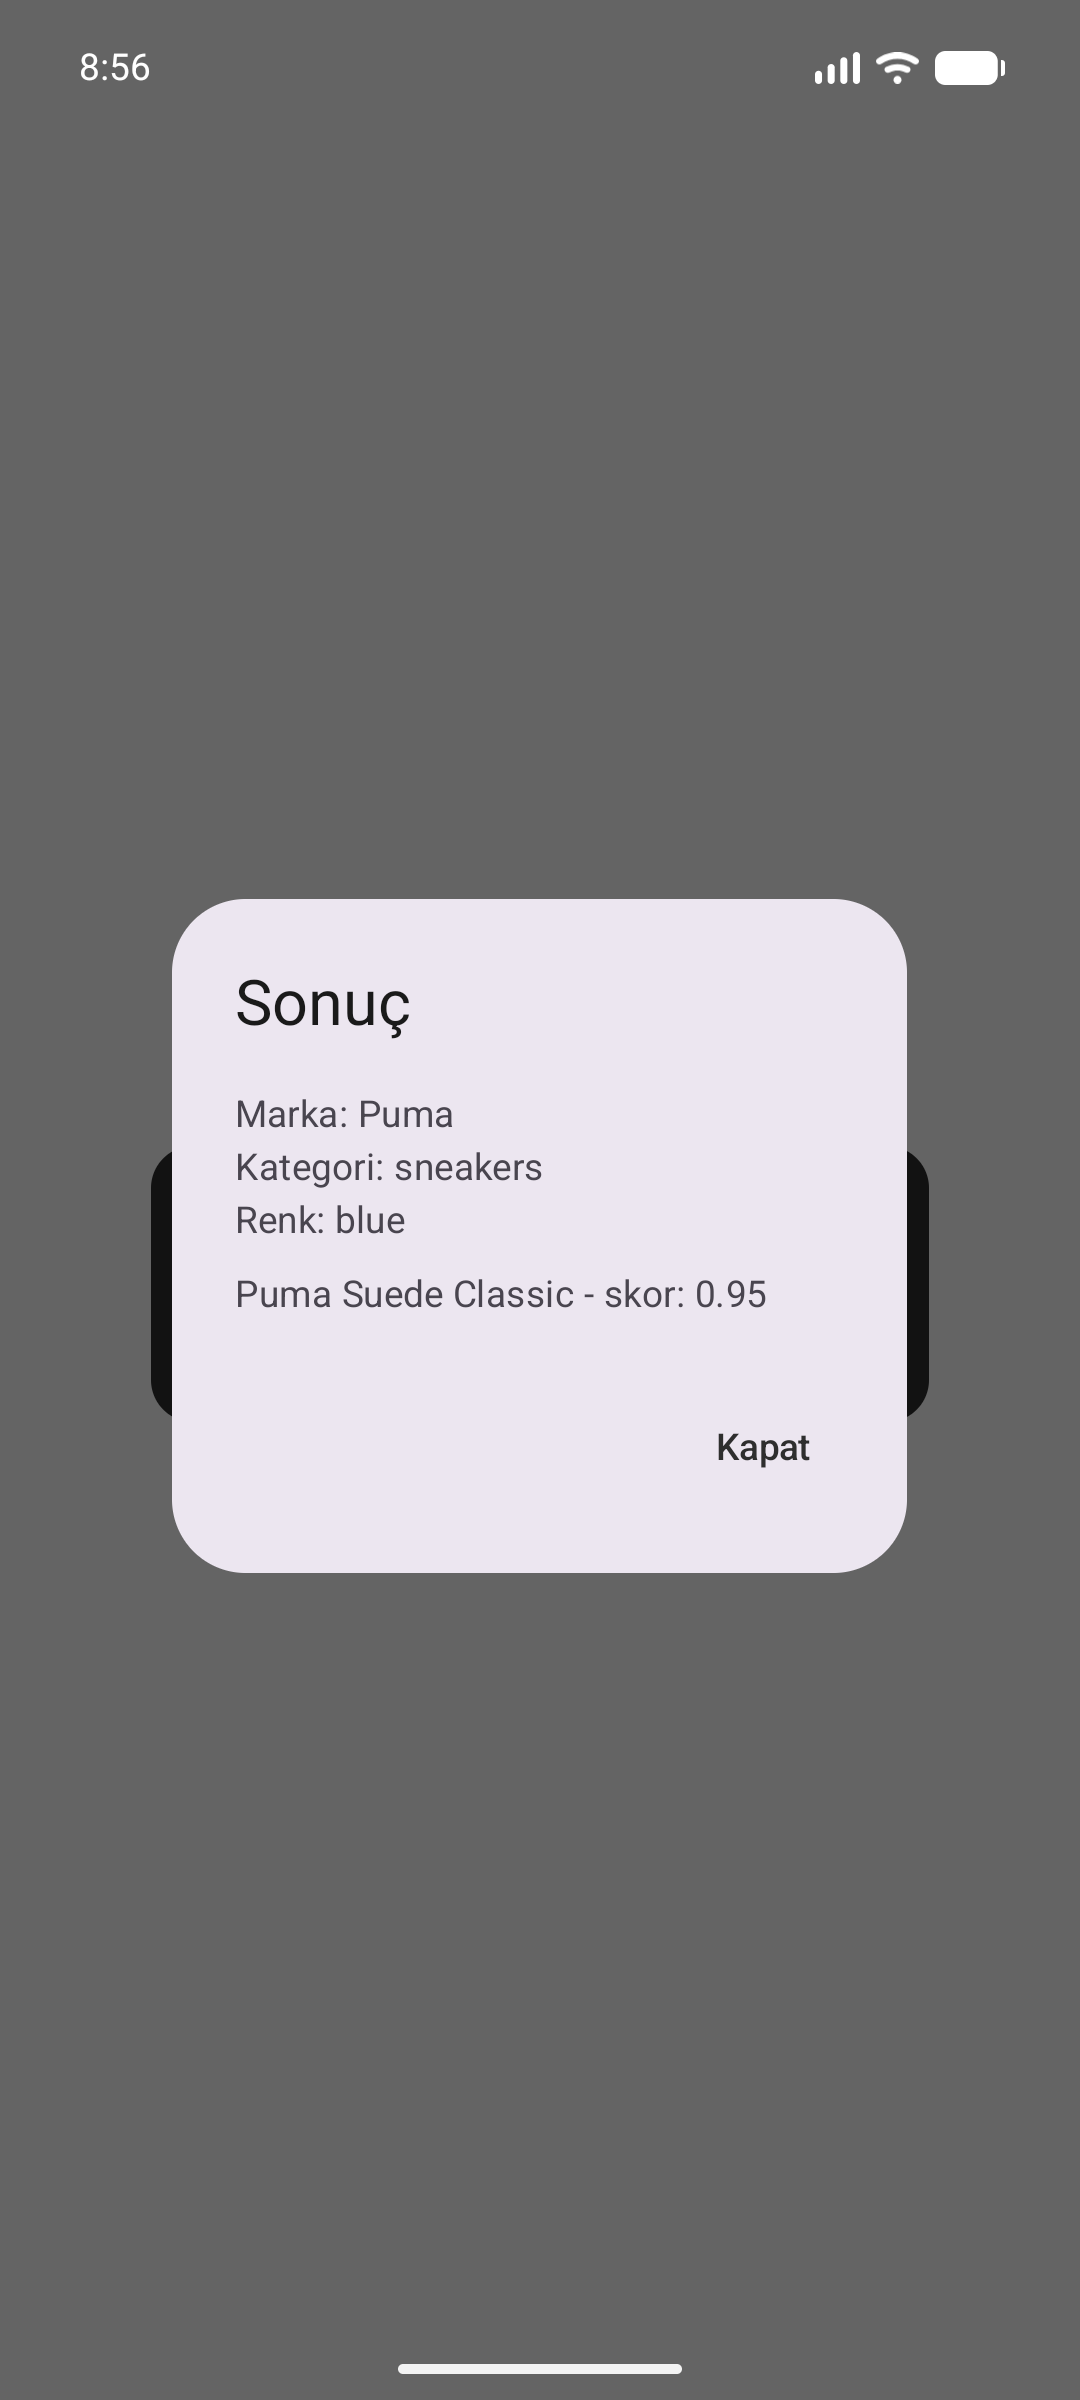
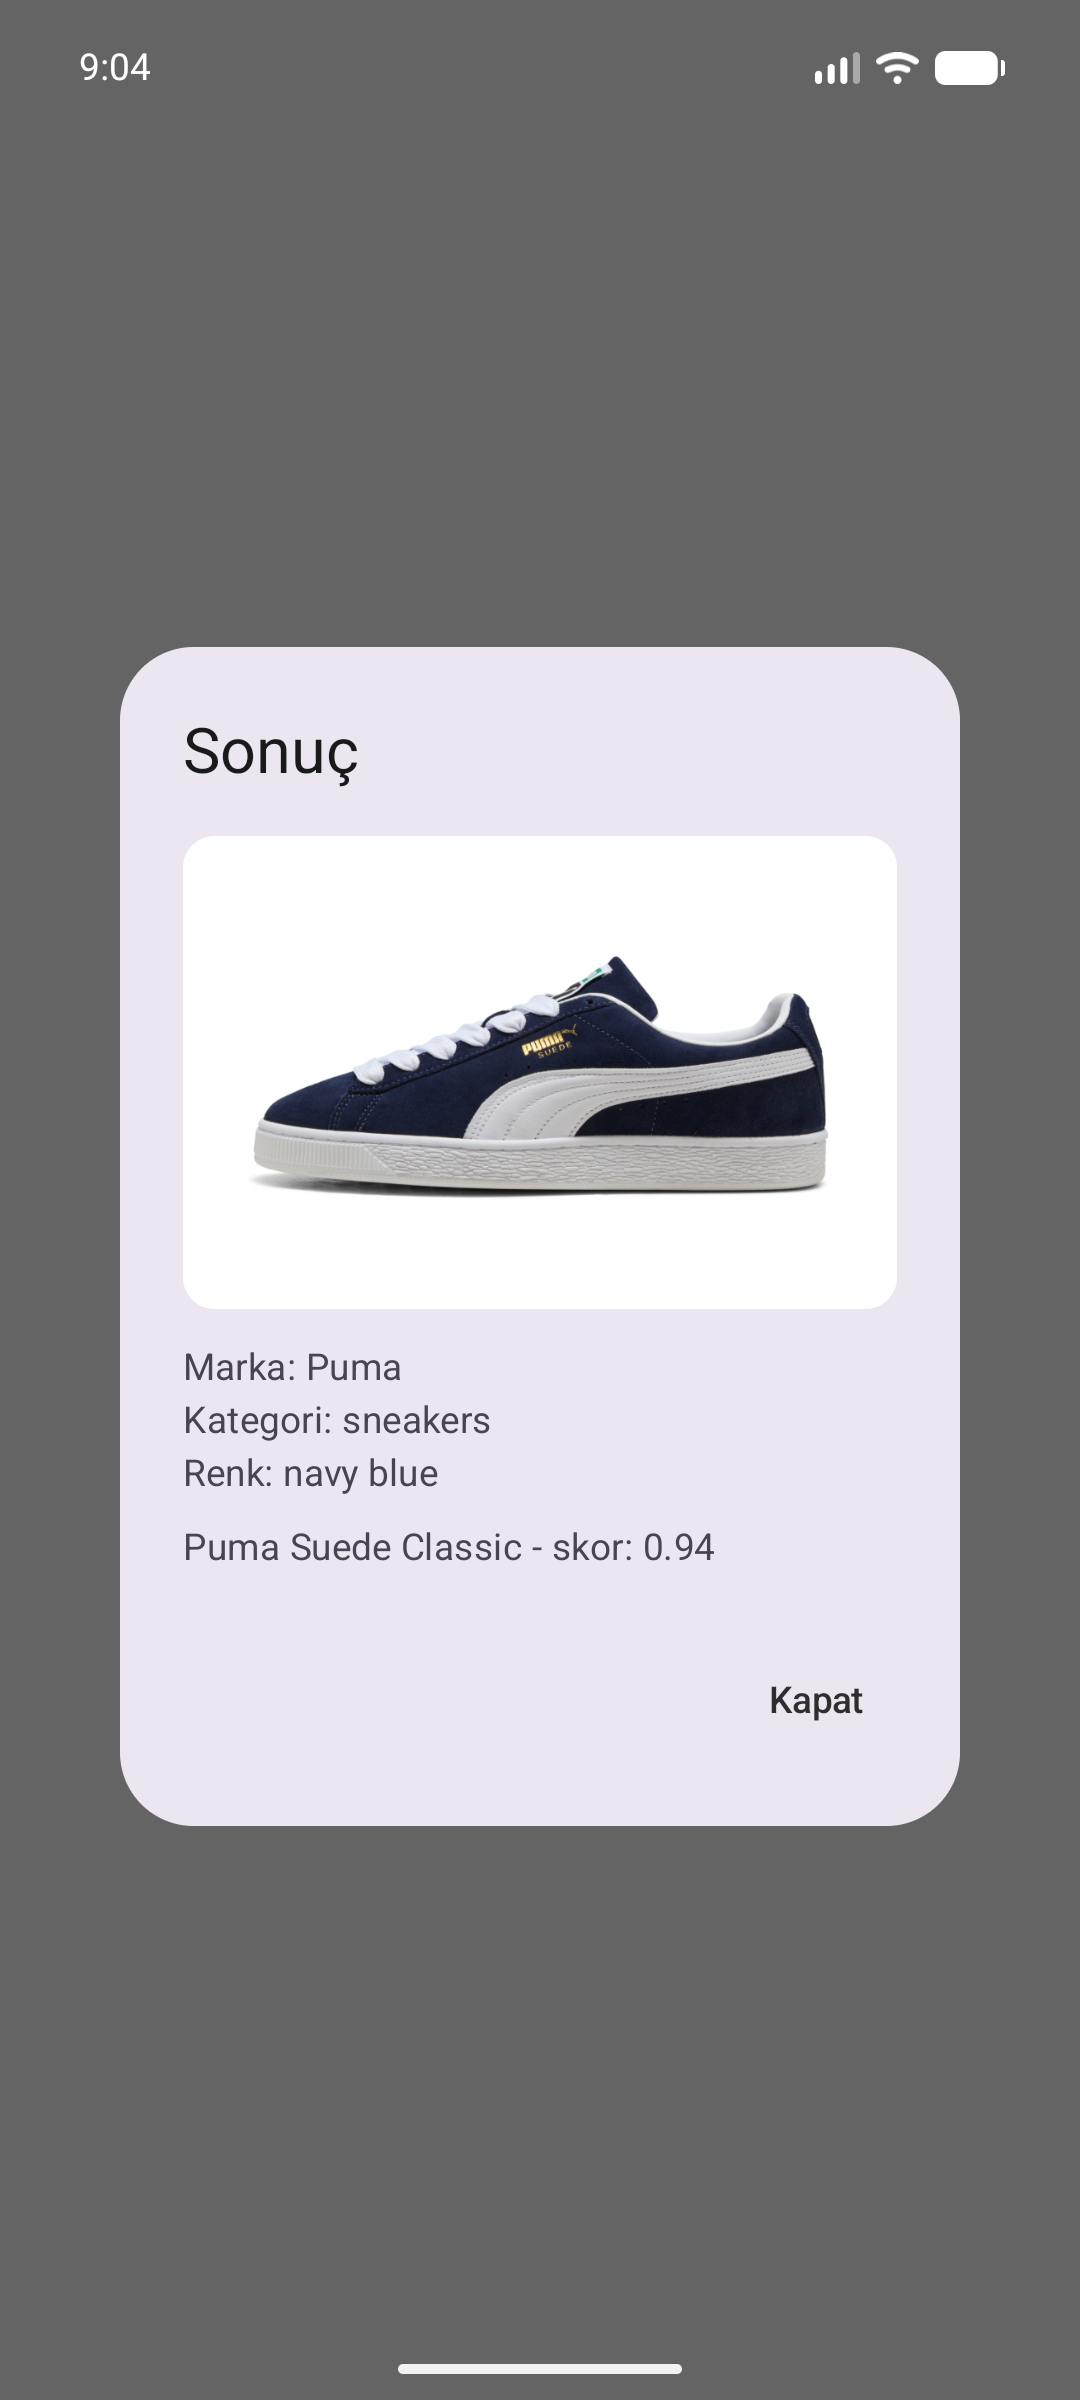
Show captured/selected image in result dialog

diff --git a/mobile/app/src/main/java/com/kagancankaba/catalens/MainActivity.kt b/mobile/app/src/main/java/com/kagancankaba/catalens/MainActivity.kt
@@ -26,6 +26,7 @@ import androidx.compose.foundation.layout.Column
 import androidx.compose.foundation.layout.Row
 import androidx.compose.foundation.layout.Spacer
 import androidx.compose.foundation.layout.fillMaxSize
+import androidx.compose.foundation.layout.fillMaxWidth
 import androidx.compose.foundation.layout.height
 import androidx.compose.foundation.layout.padding
 import androidx.compose.foundation.layout.size
@@ -59,6 +60,10 @@ import kotlinx.coroutines.launch
 import kotlinx.coroutines.withContext
 import java.util.concurrent.Executors
 import androidx.compose.ui.draw.clip
+import android.graphics.BitmapFactory
+import androidx.compose.foundation.Image
+import androidx.compose.ui.graphics.asImageBitmap
+import androidx.compose.ui.layout.ContentScale
 
 class MainActivity : ComponentActivity() {
     override fun onCreate(savedInstanceState: Bundle?) {
@@ -89,12 +94,14 @@ fun CatalensApp(modifier: Modifier = Modifier) {
     var result by remember { mutableStateOf<RecognizeResponse?>(null) }
     var isLoading by remember { mutableStateOf(false) }
     var errorMessage by remember { mutableStateOf<String?>(null) }
+    var resultImageBytes by remember { mutableStateOf<ByteArray?>(null) }
     val scope = rememberCoroutineScope()
 
     fun processImage(bytes: ByteArray) {
         screen = Screen.HOME
         result = null
         errorMessage = null
+        resultImageBytes = bytes
         isLoading = true
         scope.launch {
             try {
@@ -161,9 +168,11 @@ fun CatalensApp(modifier: Modifier = Modifier) {
         ResultDialog(
             result = result,
             errorMessage = errorMessage,
+            imageBytes = resultImageBytes,
             onDismiss = {
                 result = null
                 errorMessage = null
+                resultImageBytes = null
             }
         )
     }
@@ -304,6 +313,7 @@ fun CameraPreviewWithCapture(
 fun ResultDialog(
     result: RecognizeResponse?,
     errorMessage: String?,
+    imageBytes: ByteArray?,
     onDismiss: () -> Unit
 ) {
     AlertDialog(
@@ -318,6 +328,24 @@ fun ResultDialog(
         },
         text = {
             Column {
+                imageBytes?.let { bytes ->
+                    val bitmap = remember(bytes) {
+                        BitmapFactory.decodeByteArray(bytes, 0, bytes.size)
+                    }
+                    bitmap?.let {
+                        Image(
+                            bitmap = it.asImageBitmap(),
+                            contentDescription = null,
+                            contentScale = ContentScale.Crop,
+                            modifier = Modifier
+                                .fillMaxWidth()
+                                .height(180.dp)
+                                .clip(RoundedCornerShape(12.dp))
+                        )
+                        Spacer(modifier = Modifier.height(12.dp))
+                    }
+                }
+
                 errorMessage?.let {
                     Text(it)
                 }
